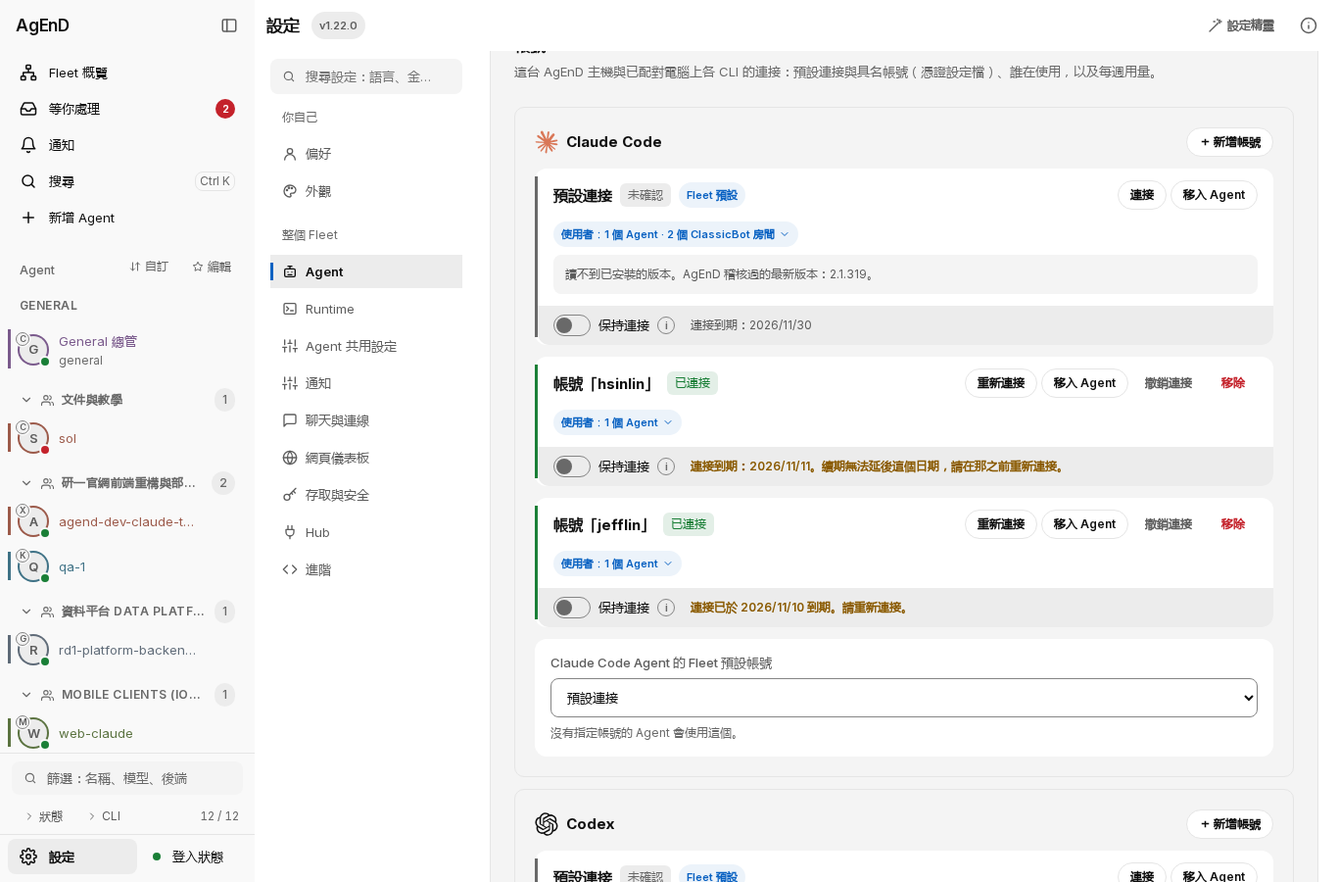
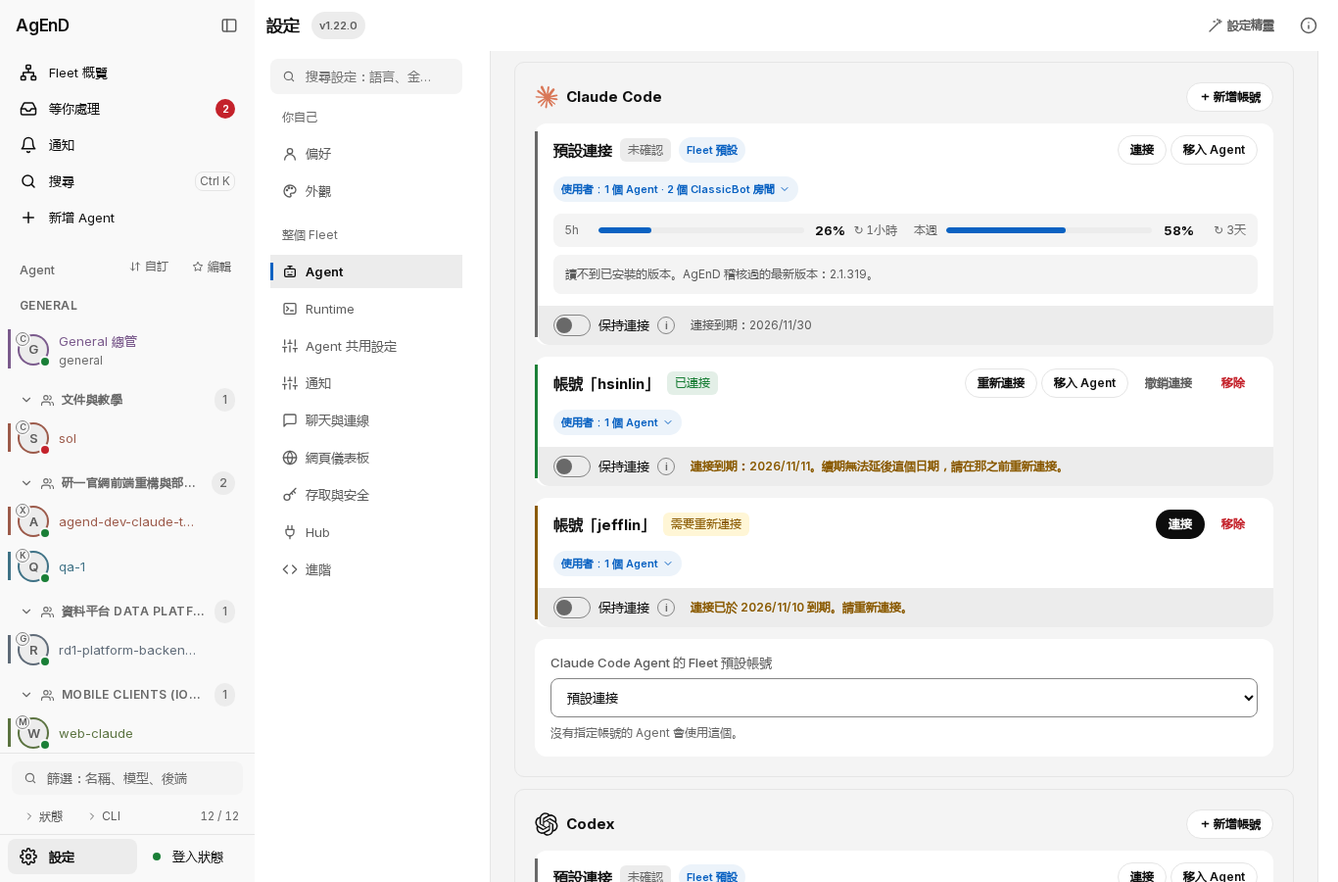
fix(accounts): an ended Claude sign-in's badge says "needs reconnecting", not 「已連接」 (#3572, review)
The leader on #3577 (the hsinlin case the user hit): Accounts said
「已連接」 for a sign-in that was over. claudeStoreHasLogin took any
access token in .credentials.json — or, after claude blanked it on a
refused refresh (invalid_grant), the account .claude.json still names —
as signed in; the default row took `claude auth status`'s loggedIn,
which stays true in both cases.

- credential-profile.ts: claudeStoreEnded() — the login in the file is
  over: its refreshTokenExpiresAt has passed (a refresh token still in
  the file), or it was blanked (expiresAt 0, or both tokens empty). From
  the file only (dates and emptiness, never a token); no file (macOS:
  the Keychain) is not over. claudeStoreHasLogin says signed out then.
- fleet-manager.ts: the default row (whatever `claude auth status`
  said) and each profile row carry `reconnect` when the file says it is
  over; the default is moved to not signed in, never the other way.
- accounts-view.js: such a row's badge reads 「需要重新連接」 / "needs
  reconnecting" (its own words in the module; an older page shows
  「尚未連接」, an older server sends no `reconnect`).

Fail-first: each of the reader, the default-row override, the disk
profile row and the badge goes red alone. Pictures re-shot (before:
「已連接」 on jefflin; after: 「需要重新連接」).

diff --git a/tests/signin-end-notice-2825.test.ts b/tests/signin-end-notice-2825.test.ts
@@ -20,6 +20,8 @@ import { tmpdir } from "node:os";
 import { join } from "node:path";
 import { END_NOTICE_MS, END_WARNING_MS, SignInKeepAlive, endNoticeOf, writeEntries, type KeepAliveDeps, type KeepAliveRunners } from "../src/signin-keepalive.js";
 import { deriveNeedsYou } from "../src/needs-you.js";
+import { claudeStoreEnded, claudeStoreHasLogin } from "../src/backend/credential-profile.js";
+import { buildAccountsView } from "../src/accounts-view.js";
 
 const DAY = 86_400_000, NOW = Date.UTC(2026, 10, 10, 6, 0, 0);
 const dirs: string[] = [];
@@ -43,6 +45,39 @@ describe("endNoticeOf (pure)", () => {
     expect(endNoticeOf([s(NOW + 6 * 3_600_000)], NOW)).toEqual([{ backend: "claude-code", profile: "work", kind: "ending", since: NOW + 6 * 3_600_000 - DAY, endsAt: NOW + 6 * 3_600_000 }]);
     expect(endNoticeOf([s(NOW)], NOW)).toEqual([{ backend: "claude-code", profile: "work", kind: "ended", since: NOW, endsAt: NOW }]);
     expect(endNoticeOf([s(NOW - DAY)], NOW)).toEqual([{ backend: "claude-code", profile: "work", kind: "ended", since: NOW - DAY, endsAt: NOW - DAY }]);
+  });
+});
+
+describe("an ended sign-in is not 「已連接」 (the leader on #3577: the hsinlin case)", () => {
+  const store = (creds?: Record<string, unknown>, account = true) => {
+    const d = scratch();
+    if (creds) writeFileSync(join(d, ".credentials.json"), JSON.stringify({ claudeAiOauth: creds }));
+    if (account) writeFileSync(join(d, ".claude.json"), JSON.stringify({ oauthAccount: { accountUuid: "u-1" } }));
+    return d;
+  };
+  const live = { accessToken: SECRET_AT, refreshToken: SECRET_RT, expiresAt: NOW + 3_600_000, refreshTokenExpiresAt: NOW + 5 * DAY };
+  it("claudeStoreEnded: past its end date (a refresh token still there), or blanked after invalid_grant (expiresAt 0 / no tokens) — from the file; nothing known: false", () => {
+    expect(claudeStoreEnded(store(live), NOW)).toBe(false);
+    expect(claudeStoreEnded(store({ ...live, refreshTokenExpiresAt: NOW - 1 }), NOW)).toBe(true);
+    expect(claudeStoreEnded(store({ ...live, refreshTokenExpiresAt: NOW }), NOW)).toBe(true);
+    expect(claudeStoreEnded(store({ ...live, accessToken: "", refreshToken: "", expiresAt: 0 }), NOW)).toBe(true);   // what claude leaves after invalid_grant
+    expect(claudeStoreEnded(store({ ...live, expiresAt: 0 }), NOW)).toBe(true);
+    expect(claudeStoreEnded(store({ accessToken: "", refreshToken: "" }), NOW)).toBe(true);
+    expect(claudeStoreEnded(store({ accessToken: SECRET_AT }), NOW)).toBe(false);                                  // no end date known: not over
+    expect(claudeStoreEnded(store(undefined), NOW)).toBe(false);                                                    // macOS: the token is in the Keychain
+    expect(claudeStoreEnded(join(scratch(), "missing"), NOW)).toBe(false);
+  });
+  it("claudeStoreHasLogin: an ended login is signed out even though .claude.json still names the account; the Keychain shape (no file) stays signed in", () => {
+    expect(claudeStoreHasLogin(store({ ...live, refreshTokenExpiresAt: Date.now() - 1 }))).toBe(false);
+    expect(claudeStoreHasLogin(store({ ...live, accessToken: "", refreshToken: "", expiresAt: 0 }))).toBe(false);
+    expect(claudeStoreHasLogin(store({ ...live, refreshTokenExpiresAt: Date.now() + DAY }))).toBe(true);
+    expect(claudeStoreHasLogin(store(undefined))).toBe(true);
+  });
+  it("the Accounts view carries `reconnect` on the default row and a profile's row", () => {
+    const v = buildAccountsView({ targets: [{ backend: "claude-code", state: "not_signed_in", signIn: true, reconnect: true }],
+      diskProfiles: new Map([["claude-code", [{ profile: "hsinlin", state: "not_signed_in", signIn: true, reconnect: true }, { profile: "ok", state: "usable", signIn: true }]]]),
+      agents: [], classic: [], fleetDefaults: new Map() } as never);
+    expect(v.clis[0]!.rows.map(r => [r.profile, r.state, r.reconnect ?? null])).toEqual([[null, "not_signed_in", true], ["hsinlin", "not_signed_in", true], ["ok", "usable", null]]);
   });
 });
 
@@ -130,6 +165,22 @@ describe("FleetManager: the sign-ins in use, warned about in Needs you", () => {
     const items = deriveNeedsYou({ prompts: [], instances: [], deliveries: [], ownerOf: () => "dc", signInKeepAlive: lines });
     expect(items.map((i: any) => [i.reason, i.id.replace(/\d+$/, "N"), !!i.signIn])).toEqual([
       ["backend_signin", "keepalive:ending:claude-code:hsinlin:N", true], ["backend_signin", "keepalive:ended:claude-code::N", true]]);
+  });
+  it("the leader on #3577: the rows' state reads the file — an ended default whose `claude auth status` said loggedIn, and an ended profile, say reconnect", async () => {
+    claudeCreds(join(dir, "credential-profiles", "claude-code", "gone"), T - 3_600_000);
+    const rows = fm.backendAvailabilityRows;
+    fm.backendAvailabilityRows = () => [{ backend: "claude-code", state: "usable", auth: "valid", path: "/x/claude" }];     // the CLI's answer: logged in
+    try {
+      const targets = fm.backendSignInTargets();
+      expect(targets.filter((t: any) => !t.profile).map((t: any) => [t.backend, t.state, t.reconnect ?? null])).toEqual([["claude-code", "not_signed_in", true]]);
+      expect(targets.filter((t: any) => t.profile === "hsinlin").map((t: any) => [t.state, t.reconnect ?? null])).toEqual([["usable", null]]);
+      // The Accounts view (its profiles on disk): the ended profile says reconnect; a live one doesn't.
+      fm.refreshSignInIdentities = () => {};                 // no `claude auth status` for the identity line (no CLI here)
+      const view = await fm.accountsView(0);
+      const claude = view.clis.find((c: any) => c.backend === "claude-code");
+      expect(claude.rows.filter((r: any) => r.scope.kind === "host").map((r: any) => [r.profile, r.state, r.reconnect ?? null]))
+        .toEqual(expect.arrayContaining([[null, "not_signed_in", true], ["gone", "not_signed_in", true], ["hsinlin", "usable", null]]));
+    } finally { fm.backendAvailabilityRows = rows; }
   });
   it("#3577 review P2: a profile saved but not yet applied — the agent still runs on the old one (as launched), which stays in use and warned about until the restart", async () => {
     const yaml = (profile: string) => [

diff --git a/src/fleet-manager.ts b/src/fleet-manager.ts
@@ -485,7 +485,7 @@ type ReconcileObserver = (
   error?: string,
 ) => void;
 import { kiroHome } from "./backend/kiro-kas-store.js";
-import { CHAT_PROFILE_LOGIN_BACKENDS, credentialHomeSpec, credentialProfileHome, credentialProfileEnv, credentialProfileLogin, credentialProfileLoginCommand, credentialProfileStoreHome, credentialSwitchCarriesConversation, credentialSwitchStartsFresh, instanceCredentialProfile, listConfiguredProfiles, resolveCredentialProfile } from "./backend/credential-profile.js";
+import { CHAT_PROFILE_LOGIN_BACKENDS, claudeStoreEnded, credentialHomeSpec, credentialProfileHome, credentialProfileEnv, credentialProfileLogin, credentialProfileLoginCommand, credentialProfileStoreHome, credentialSwitchCarriesConversation, credentialSwitchStartsFresh, instanceCredentialProfile, listConfiguredProfiles, resolveCredentialProfile } from "./backend/credential-profile.js";
 import { carryClaudeConversation, type CarryResult } from "./backend/claude-carry.js";
 import { classicProfile, mergeBackendOptions, profileKey, profileName, profileOf, readClassicBindings, readClassicBindingsStrict, type ClassicProfile } from "./classic-bindings.js";
 import { ACCOUNT_CLIS, PROFILE_CLIS, buildAccountsView, profilesOnDisk, shortUsage, weeklyUsage, type AccountUsage, type AccountsView } from "./accounts-view.js";
@@ -21212,7 +21212,7 @@ export class FleetManager implements FleetContext, LifecycleContext, ArchiverCon
   async accountsView(usageWaitMs = 1500): Promise<AccountsView> {
     this.refreshSignInIdentities();
     const targets = this.backendSignInTargets();
-    const diskProfiles = new Map<string, Array<{ profile: string; state: SignInTarget["state"]; signIn: boolean; hostCommand?: string; identity?: AccountIdentity }>>();
+    const diskProfiles = new Map<string, Array<{ profile: string; state: SignInTarget["state"]; signIn: boolean; hostCommand?: string; identity?: AccountIdentity; reconnect?: true }>>();
     for (const backend of PROFILE_CLIS) {
       const rows = [];
       for (const profile of profilesOnDisk(this.dataDir, backend)) {
@@ -21222,7 +21222,7 @@ export class FleetManager implements FleetContext, LifecycleContext, ArchiverCon
         const hostCommand = signIn ? null : credentialProfileLoginCommand(this.dataDir, backend, profile);
         const identity = this.signInIdentity(backend, profile);
         rows.push({ profile, state: (login === "logged-in" ? "usable" : login === "signed-out" ? "not_signed_in" : "unknown") as SignInTarget["state"], signIn,
-          ...(hostCommand ? { hostCommand } : {}), ...(identity ? { identity } : {}) });
+          ...(hostCommand ? { hostCommand } : {}), ...(identity ? { identity } : {}), ...(this.claudeSignInEnded(backend, profile) ? { reconnect: true as const } : {}) });
       }
       diskProfiles.set(backend, rows);
     }
@@ -21655,14 +21655,27 @@ export class FleetManager implements FleetContext, LifecycleContext, ArchiverCon
     return result;
   }
 
+  /** M-2825: a host Claude sign-in whose own file says it is over (credential-profile.ts claudeStoreEnded); false for other CLIs. */
+  private claudeSignInEnded(backend: string, profile: string | null): boolean {
+    if (backend !== "claude-code") return false;
+    try {
+      const home = profile ? credentialProfileStoreHome(this.dataDir, backend, profile) : credentialHomeSpec(backend)?.sharedRoot();
+      return !!home && claudeStoreEnded(home);
+    } catch { return false; }
+  }
+
   backendSignInTargets(): SignInTarget[] {
     const out: SignInTarget[] = [];
     for (const row of this.backendAvailabilityRows()) {
       const flow = LOGIN_FLOWS[row.backend];
       const install = BACKEND_INSTALLATION_INFO[row.backend]?.install;
+      // M-2825: `claude auth status` says loggedIn after a refused refresh and past the sign-in's end date — the file says
+      // whether it is over, and then it is not signed in (never the other way: the file can't vouch for a login).
+      const ended = row.state === "usable" && this.claudeSignInEnded(row.backend, null);
       out.push({
         // Not installed or too old: signing in would not help — the row says how to install (or update) it instead.
-        backend: row.backend, state: row.state, signIn: row.state !== "not_installed" && row.state !== "too_old" && dashboardSignInSupported(row.backend),
+        backend: row.backend, state: ended ? "not_signed_in" : row.state, ...(ended ? { reconnect: true as const } : {}),
+        signIn: row.state !== "not_installed" && row.state !== "too_old" && dashboardSignInSupported(row.backend),
         ...(flow?.remoteLogin === "unsupported" ? { hostCommand: flow.command } : {}),
         ...(row.state === "not_installed" && install ? { install } : {}),
         ...(row.state === "too_old" && install ? { update: install } : {}),
@@ -21680,7 +21693,8 @@ export class FleetManager implements FleetContext, LifecycleContext, ArchiverCon
       const signIn = dashboardSignInSupported(backend, profile);
       const hostCommand = signIn ? null : credentialProfileLoginCommand(this.dataDir, backend, profile);
       out.push({ backend, profile, state: login === "logged-in" ? "usable" : login === "signed-out" ? "not_signed_in" : "unknown", signIn,
-        ...(hostCommand ? { hostCommand } : {}), ...(this.signInIdentity(backend, profile) ? { identity: this.signInIdentity(backend, profile) } : {}) });
+        ...(hostCommand ? { hostCommand } : {}), ...(this.signInIdentity(backend, profile) ? { identity: this.signInIdentity(backend, profile) } : {}),
+        ...(this.claudeSignInEnded(backend, profile) ? { reconnect: true as const } : {}) });
     }
     return out;
   }

diff --git a/src/ui/accounts-view.js b/src/ui/accounts-view.js
@@ -38,7 +38,7 @@ register("accounts", {
   en: {
     title: "Accounts", hint: "Each CLI's connections on this AgEnD host and on paired computers: the default one and named accounts (credential profiles), who uses them and their weekly usage.",
     loading: "Reading accounts…", failed: "Could not read the accounts.", empty: "No CLI is installed or used by an agent on this host.",
-    def: "Default connection", profile: "Account “{0}”", state_usable: "connected", state_not_signed_in: "not connected", state_unknown: "not checked",
+    def: "Default connection", profile: "Account “{0}”", state_usable: "connected", state_not_signed_in: "not connected", state_reconnect: "needs reconnecting", state_unknown: "not checked",
     state_not_installed: "not installed", state_too_old: "too old",
     usedBy: "used by {0}", usedByNone: "used by no agent", agents: "{0} agents", agent: "1 agent", channels: "{0} ClassicBot rooms", channel: "1 ClassicBot room",
     fleetDefaultTag: "fleet default",
@@ -66,7 +66,7 @@ register("accounts", {
   "zh-TW": {
     title: "帳號", hint: "這台 AgEnD 主機與已配對電腦上各 CLI 的連接：預設連接與具名帳號（憑證設定檔）、誰在使用，以及每週用量。",
     loading: "正在讀取帳號…", failed: "無法讀取帳號。", empty: "這台主機上沒有安裝或被 Agent 使用的 CLI。",
-    def: "預設連接", profile: "帳號「{0}」", state_usable: "已連接", state_not_signed_in: "尚未連接", state_unknown: "未確認",
+    def: "預設連接", profile: "帳號「{0}」", state_usable: "已連接", state_not_signed_in: "尚未連接", state_reconnect: "需要重新連接", state_unknown: "未確認",
     state_not_installed: "未安裝", state_too_old: "版本太舊",
     usedBy: "使用者：{0}", usedByNone: "沒有 Agent 使用", agents: "{0} 個 Agent", agent: "1 個 Agent", channels: "{0} 個 ClassicBot 房間", channel: "1 個 ClassicBot 房間",
     fleetDefaultTag: "Fleet 預設",
@@ -330,7 +330,7 @@ function InstallOnlyRow({ row, running }) {
   const canInstall = row.state === "not_installed" && !!row.install;
   return html`<div class="s-row s-account-row" data-account="default">
     <div class="s-account-title-bar">
-      <div class="s-account-title-left"><span class=${`tag s-auth-state is-${row.state || "unknown"}`}>${installingNow ? hostInstallText(run.mode === "update" ? "updating" : "installing") : tx(`state_${row.state || "unknown"}`)}</span></div>
+      <div class="s-account-title-left"><span class=${`tag s-auth-state is-${row.state || "unknown"}`}>${installingNow ? hostInstallText(run.mode === "update" ? "updating" : "installing") : tx(row.reconnect ? "state_reconnect" : `state_${row.state || "unknown"}`)}</span></div>
       <span class="s-actions">${canInstall ? html`<${InstallButton} backend=${row.backend} blocked=${running} />` : null}</span>
     </div>
     ${canInstall && !run ? html`<p class="note s-account-why">${hostInstallText("notInstalled")}</p>` : null}
@@ -388,7 +388,7 @@ function Row({ cli, row, onMove, onRemove, onSignIn = openSignIn, onSignOut, ope
   return html`<div class="s-row s-account-row" data-account=${row.profile || "default"}>
     <div class="s-account-title-bar">
       <div class="s-account-title-left"><strong>${rowName(row)}</strong>
-        <span class=${`tag s-auth-state is-${row.state || "unknown"}`}>${installingNow ? hostInstallText(installRun.mode === "update" ? "updating" : "installing") : tx(`state_${row.state || "unknown"}`)}</span>
+        <span class=${`tag s-auth-state is-${row.state || "unknown"}`}>${installingNow ? hostInstallText(installRun.mode === "update" ? "updating" : "installing") : tx(row.reconnect ? "state_reconnect" : `state_${row.state || "unknown"}`)}</span>
         ${row.usedBy.fleetDefault && cli.profiles ? html`<span class="tag s-account-default-tag">${machine ? tx("machineDefaultTag") : tx("fleetDefaultTag")}</span>` : null}</div>
       ${readOnly ? null : html`<span class="s-actions">
         ${canInstall ? html`<${InstallButton} backend=${row.backend} blocked=${running} />` : null}

diff --git a/src/accounts-view.ts b/src/accounts-view.ts
@@ -64,6 +64,8 @@ export interface AccountRow {
   shortUsage?: AccountUsage;
   /** #3292: "Keep sign-in alive" (Claude Code and Codex host rows): the setting, its last run, the dates the sign-in's file says. */
   keepAlive?: AccountKeepAlive;
+  /** M-2825: not signed in because the sign-in is over (its file says so): the badge says to reconnect. */
+  reconnect?: true;
 }
 /** Dates are ISO strings; `lastOutcome` is signin-keepalive.ts's Outcome. No token, path or output is in it. */
 export interface AccountKeepAlive { enabled: boolean; fallback?: boolean; endsAt?: string; expiresAt?: string; lastAt?: string; lastOutcome?: string; planType?: string }
@@ -97,7 +99,7 @@ export interface AccountsInput {
   /** backendSignInTargets(): every backend's default, and each profile an agent uses. */
   targets: readonly SignInTarget[];
   /** Profiles on disk an agent may not use yet, per backend, with their sign-in state and how to sign them in. */
-  diskProfiles: ReadonlyMap<string, ReadonlyArray<{ profile: string; state: SignInTarget["state"]; signIn: boolean; hostCommand?: string; identity?: AccountIdentity }>>;
+  diskProfiles: ReadonlyMap<string, ReadonlyArray<{ profile: string; state: SignInTarget["state"]; signIn: boolean; hostCommand?: string; identity?: AccountIdentity; reconnect?: true }>>;
   /** Every fleet agent: its backend and its effective profile (its own, else the fleet default's; null = the default sign-in). */
   agents: ReadonlyArray<{ name: string; backend: string; profile: string | null }>;
   /** ClassicBot channels, as their key, backend and effective profile. */
@@ -187,7 +189,7 @@ export function buildAccountsView(input: AccountsInput): AccountsView {
     if (hostRelevant) rows.push({
       scope: { kind: "host" }, backend, profile: null, state: def?.state ?? "unknown", signIn: !!def?.signIn,
       ...(def?.identity ? { identity: def.identity } : {}), ...(def?.hostCommand ? { hostCommand: def.hostCommand } : {}),
-      ...(def?.install ? { install: def.install } : {}), ...(def?.update ? { update: def.update } : {}),
+      ...(def?.install ? { install: def.install } : {}), ...(def?.update ? { update: def.update } : {}), ...(def?.reconnect ? { reconnect: true as const } : {}),
       ...(installed && versionOf(printed) ? { version: versionOf(printed)! } : {}), ...(cliUpdate ? { cliUpdate } : {}),
       usedBy: usedBy(null), ...(usage(null) ? { usage: usage(null) } : {}), ...(shortOf(null) ? { shortUsage: shortOf(null) } : {}), ...keepAlive(null),
     });
@@ -204,7 +206,7 @@ export function buildAccountsView(input: AccountsInput): AccountsView {
         const src = t ?? d;
         rows.push({
           scope: { kind: "host" }, backend, profile, state: src?.state ?? "not_signed_in", signIn: !!src?.signIn,
-          ...(src?.identity ? { identity: src.identity } : {}), ...(src?.hostCommand ? { hostCommand: src.hostCommand } : {}),
+          ...(src?.identity ? { identity: src.identity } : {}), ...(src?.hostCommand ? { hostCommand: src.hostCommand } : {}), ...(src?.reconnect ? { reconnect: true as const } : {}),
           usedBy: usedBy(profile), ...(usage(profile) ? { usage: usage(profile) } : {}), ...(shortOf(profile) ? { shortUsage: shortOf(profile) } : {}), ...keepAlive(profile),
         });
       }

diff --git a/src/backend/credential-profile.ts b/src/backend/credential-profile.ts
@@ -245,6 +245,8 @@ const CLAUDE_HOME: CredentialHomeSpec = {
  * no proof in the other: null — unknown, never "signed out" (#1699).
  */
 export function claudeStoreHasLogin(storeHome: string): boolean | null {
+  // M-2825: a login in .credentials.json that is over is no login, whatever .claude.json still names (the hsinlin case).
+  if (claudeStoreEnded(storeHome)) return false;
   let unreadable = false;
   const read = (name: string): Record<string, any> | null => {
     try {
@@ -261,6 +263,28 @@ export function claudeStoreHasLogin(storeHome: string): boolean | null {
   const account = read(".claude.json")?.oauthAccount?.accountUuid;
   if (typeof account === "string" && account.length > 0) return true;
   return unreadable ? null : false;
+}
+
+/**
+ * M-2825 (the user, 11-10: an ended sign-in showed 「已連接」): the Claude login in this config dir's `.credentials.json`
+ * is over — its fixed end date (`refreshTokenExpiresAt`, which refreshing never moves) has passed, or the CLI blanked it
+ * after a refused refresh (`invalid_grant`: `expiresAt` 0, both tokens empty — while `claude auth status` still says
+ * loggedIn). Read from the file only: dates and emptiness, never a token's value. No file, or no login in it (macOS keeps
+ * the token in the Keychain): false — nothing is known to be over.
+ */
+export function claudeStoreEnded(storeHome: string, now: number = Date.now()): boolean {
+  let o: Record<string, unknown> | null = null;
+  try {
+    const v: unknown = JSON.parse(readFileSync(join(storeHome, ".credentials.json"), "utf8"));
+    const c = v && typeof v === "object" ? (v as Record<string, unknown>).claudeAiOauth : null;
+    o = c && typeof c === "object" ? c as Record<string, unknown> : null;
+  } catch { return false; }
+  if (!o) return false;
+  const end = o.refreshTokenExpiresAt;
+  if (typeof end === "number" && Number.isFinite(end) && end > 0 && end <= now) return true;
+  if (o.expiresAt === 0) return true;
+  const empty = (x: unknown) => typeof x !== "string" || x.length === 0;
+  return empty(o.accessToken) && empty(o.refreshToken);
 }
 
 /** Backends that can hold more than one login. */

diff --git a/tests/accounts-view-ui-3212.test.ts b/tests/accounts-view-ui-3212.test.ts
@@ -52,6 +52,14 @@ const rowOf = (backend: string, acct: string) => card(backend).querySelector(`.s
 const text = (el: any) => (el?.textContent ?? "").replace(/\s+/g, " ").trim();
 
 describe("Settings → Agents → Accounts (#3212)", () => {
+  it("M-2825: an ended sign-in's badge says to reconnect — 「需要重新連接」 / needs reconnecting — not just 'not connected'", async () => {
+    view = { clis: [{ ...VIEW.clis[0], rows: [{ ...VIEW.clis[0]!.rows[1], profile: "hsinlin", reconnect: true }, VIEW.clis[0]!.rows[1]] }] };
+    await mount();
+    expect([text(rowOf("claude-code", "hsinlin").querySelector(".s-auth-state")), text(rowOf("claude-code", "personal").querySelector(".s-auth-state"))]).toEqual(["needs reconnecting", "not connected"]);
+    await p.unmount(); i18n.setLang("zh-TW", { store: false }); A.accountsStore.set({ loaded: false, failed: false, view: null });
+    await mount();
+    expect([text(rowOf("claude-code", "hsinlin").querySelector(".s-auth-state")), text(rowOf("claude-code", "personal").querySelector(".s-auth-state"))]).toEqual(["需要重新連接", "尚未連接"]);
+  });
   it("one card per CLI; each account says which it is, who uses it, its week; states in words", async () => {
     await mount();
     expect(p.root.querySelectorAll(".s-account-card").map((c: any) => c.getAttribute("data-backend"))).toEqual(["claude-code", "codex"]);

diff --git a/src/web-backend-login.ts b/src/web-backend-login.ts
@@ -51,6 +51,8 @@ export interface SignInTarget {
   update?: string;
   /** Which account this sign-in is (a masked e-mail and a plan), Claude Code only, from the host's own `claude auth status`. Local administrators only: this list is never served to anyone else. */
   identity?: AccountIdentity;
+  /** M-2825: the sign-in's file says it is over (its end date passed, or blanked after a refused refresh): reconnect it. */
+  reconnect?: true;
 }
 
 export interface WebLoginRequester {

diff --git a/docs/screenshots/signin-end-3572/README.md b/docs/screenshots/signin-end-3572/README.md
@@ -9,7 +9,7 @@ Drawn in the real web app on the shared smoke fixture (the product's own web ser
   - profile `jefflin`, which ended 2 h ago.
 - Two agents use `hsinlin` and `jefflin`. Keep-alive is off for all three.
 
-- `after-*-accounts`: Settings → Agent → AI accounts and API keys (opened), the Claude Code card. Each row's end date: the default "ends 2026/11/30"; `hsinlin` "ends 2026/11/11 … reconnect before then" (warning colour); `jefflin` "ended 2026/11/10 … reconnect". This part is unchanged by this PR (#3292 already reads it from the file), so there's no before picture of it. (#3577 review P3: the first shots caught the Agent roster above it.)
+- `*-accounts`: Settings → Agent → AI accounts and API keys (opened), the Claude Code card. Each row shows its end date (#3292 reads it from the file): the default "ends 2026/11/30"; `hsinlin` "ends 2026/11/11 … reconnect before then" in the warning colour; `jefflin` "ended 2026/11/10 … reconnect". **The badge** (the leader on #3577: the hsinlin case the user hit) changes on `jefflin`, whose file still holds a refresh token past its end date. Before, it reads 「已連接」 (connected) in green. After, it reads 「需要重新連接」 / "needs reconnecting", with Connect as the row's main button. (#3577 review P3: the first shots caught the Agent roster above the card.)
 - `*-needs`: Needs you. **Before** (`release/2.3.5-alpha`): nothing, because keep-alive is off. **After**: "Claude Code · hsinlin: this sign-in ends by 2026-11-11 01:57 …" and "Claude Code · jefflin: this sign-in reached its end date (2026-11-10 14:57) …", each with Sign in. The same lines go into General's live Needs-you message in chat.
 
 Cases: desk light zh-TW, desk dark EN, phone light zh-TW.

diff --git a/changes/3572.zh-TW.md b/changes/3572.zh-TW.md
@@ -1,4 +1,4 @@
 ---
 section: Changed
 ---
-- **每個使用中的 Claude 登入都會在到期前提醒（#3572）。** Claude 登入有一個固定的到期日，續期也無法延後。以前只有開啟「保持登入」的登入會提醒；現在每個 Agent 或 ClassicBot 房間正在使用的 Claude 登入（預設登入和每個設定檔），都會在到期前一天出現在「等你處理」（以及 General 的聊天），到期後再提醒一次，並附「登入」按鈕。提醒會用主機所在地的日期和時間。「設定 → Agent → AI 帳號」本來就會顯示每個登入的到期日。
+- **每個使用中的 Claude 登入都會在到期前提醒（#3572）。** Claude 登入有一個固定的到期日，續期也無法延後。以前只有開啟「保持登入」的登入會提醒；現在每個 Agent 或 ClassicBot 房間正在使用的 Claude 登入（預設登入和每個設定檔），都會在到期前一天出現在「等你處理」（以及 General 的聊天），到期後再提醒一次，並附「登入」按鈕。提醒會用主機所在地的日期和時間。「設定 → Agent → AI 帳號」本來就會顯示每個登入的到期日；已到期（或續期被拒而失效）的登入，現在會顯示「需要重新連接」，而不是「已連接」。

diff --git a/changes/3572.md b/changes/3572.md
@@ -1,4 +1,4 @@
 ---
 section: Changed
 ---
-- **Every Claude sign-in in use is warned about before it ends (#3572).** A Claude sign-in has a fixed end date that renewing can't move. Before, only sign-ins with "Keep sign-in alive" on were warned about it. Now every Claude sign-in an agent or a ClassicBot room uses — the default one and each profile — shows in Needs you (and in General's chat) a day before its end date, and again once it has ended, with a Sign in button. The warning gives the date and time in the host's own time. Settings → Agent → AI accounts already shows each sign-in's end date.
+- **Every Claude sign-in in use is warned about before it ends (#3572).** A Claude sign-in has a fixed end date that renewing can't move. Before, only sign-ins with "Keep sign-in alive" on were warned about it. Now every Claude sign-in an agent or a ClassicBot room uses — the default one and each profile — shows in Needs you (and in General's chat) a day before its end date, and again once it has ended, with a Sign in button. The warning gives the date and time in the host's own time. Settings → Agent → AI accounts already shows each sign-in's end date; a sign-in that has ended (or was cut off after a refused renewal) now says "needs reconnecting" there instead of "connected".
